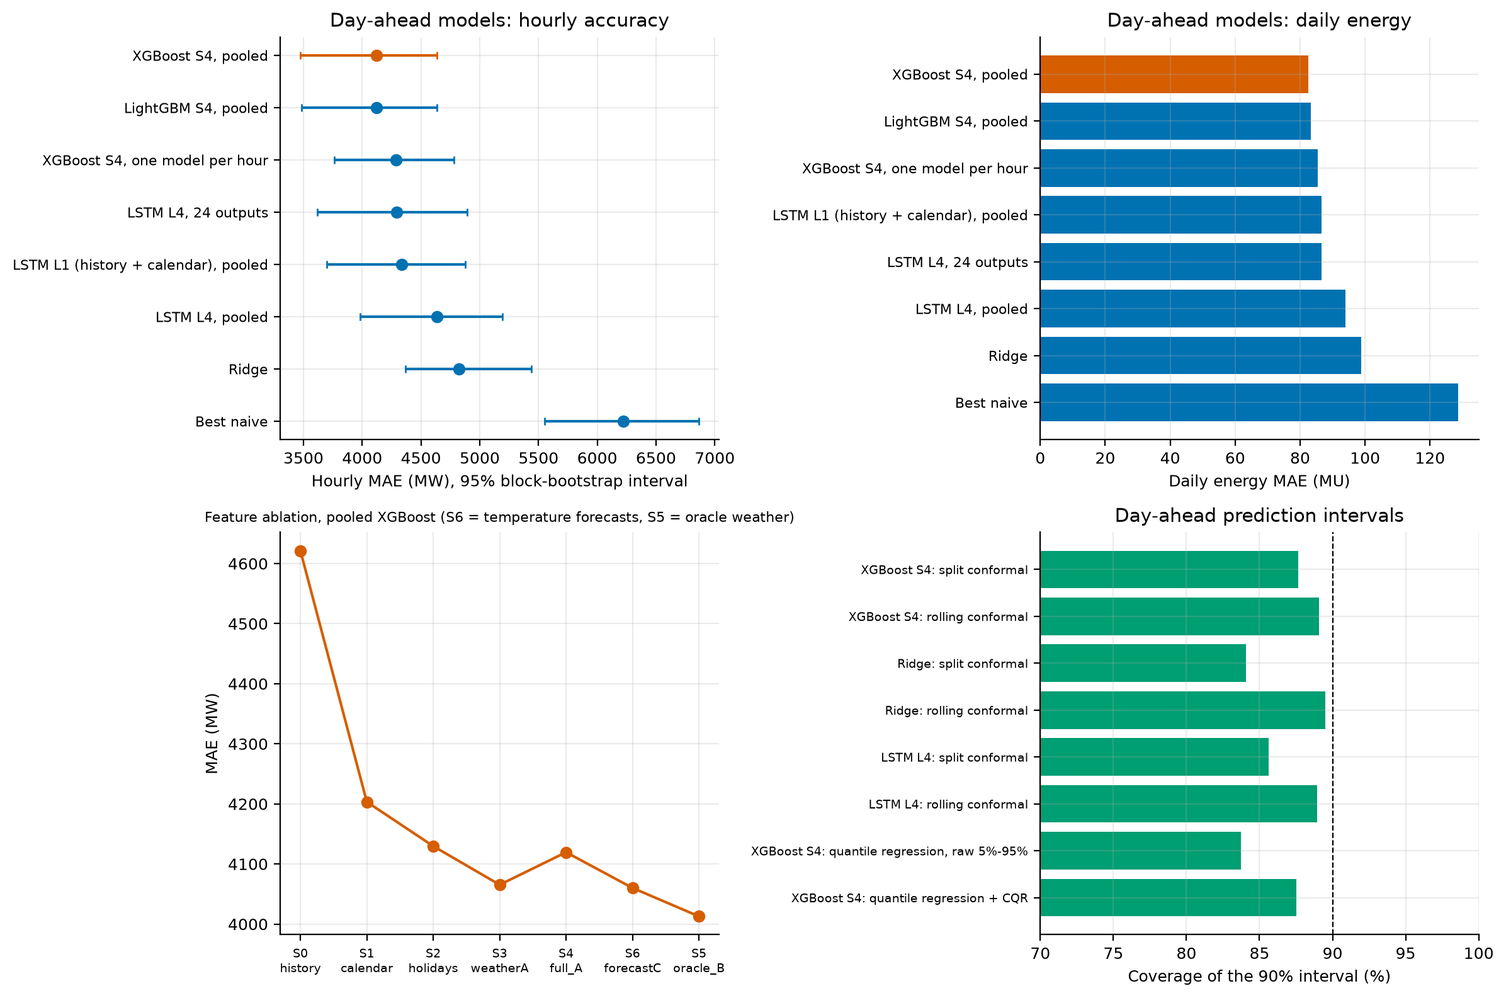
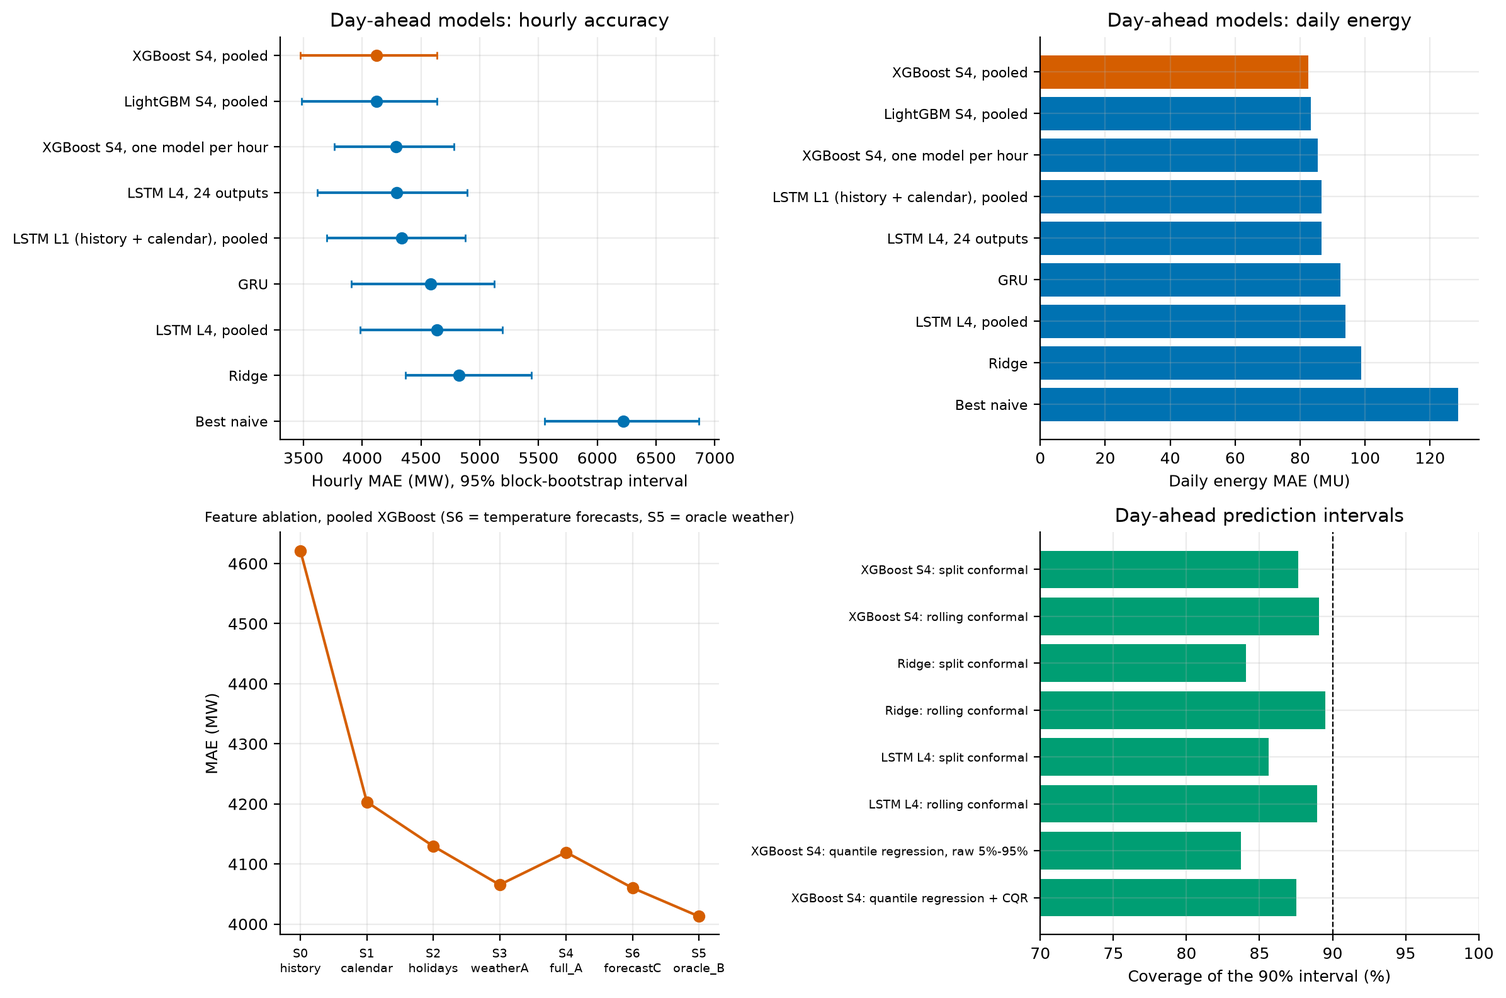
Completion batch finished: GRU results, deterministic bootstrap per comparison, documentation, audits

diff --git a/scripts/analyze_completion.py b/scripts/analyze_completion.py
@@ -9,6 +9,7 @@ import argparse
 import importlib
 import json
 import sys
+import zlib
 from pathlib import Path
 
 import matplotlib
@@ -351,7 +352,7 @@ def section_b(sp):
             cells = []
             for rn in ("XGBoost S4", "LSTM L4", "ridge"):
                 d = e - np.abs(r["ref"][rn] - r["y"])
-                lo, hi = rb.block_ci(d, rng)
+                lo, hi = rb.block_ci(d, np.random.default_rng([SEED, h, zlib.crc32(nm.encode()), zlib.crc32(rn.encode())]))   # own seed per comparison: independent of the other models run
                 cells.append(f"{sg(d.mean())} ({sg(lo)} to {sg(hi)})")
                 res[f"{h}:{nm}:{rn}"] = (float(d.mean()), float(lo), float(hi))
             md.append(f"| {h} h | **{nm}** | {f0(e.mean())} | " + " | ".join(cells) + " |")
@@ -382,7 +383,7 @@ def figure_b(rows):
                 xs.append(j)
                 ys.append(np.mean(np.abs(allp[nm] - r["y"])))
         if xs:
-            ax.plot(xs, ys, "o-", color=col[nm], label=nm)
+            ax.plot(xs, ys, "o-" if len(xs) == len(hs) else "o", color=col[nm], label=nm + ("" if len(xs) == len(hs) else " (evaluated at some horizons only)"))
     ax.set_xticks(range(len(hs)), [f"{h} h" for h in hs])
     ax.set_yscale("log")
     ax.set_ylabel("MAE (MW, log scale)")

diff --git a/reports/research_question_answers.md b/reports/research_question_answers.md
@@ -81,10 +81,11 @@ At 10:00 on day D-1 the 24 hourly values of day D are forecast (leads 14 to 37 h
 
 ## Completion batch (exploratory, secondary to the frozen headlines; designs declared in the protocol log on 2026-10-19 and 2026-10-20, validation first, one test run per model with a lock file)
 **Peak-exceedance classification (`reports/peak_events_test.md`).** An event is a day whose actual peak is at or above 228,464 MW (the 90th percentile of the daily peaks of the year before the test period); 45 of the 355 test days (12.7%) are events. Predicted peak from the saved hourly forecasts. F1 of the rolling 24 h-ahead forecasts: naive 0.659, ridge 0.787, XGBoost 0.791, LSTM 0.795; of the day-ahead forecasts: naive 0.645, ridge 0.774, XGBoost 0.791, LSTM 0.771. No difference among the learned models is distinguishable (for example XGBoost minus ridge +0.004, CI -0.050 to +0.090 for the rolling forecasts; day-ahead XGBoost minus rolling XGBoost +0.001, CI -0.066 to +0.056), the intervals are wide with 45 events, and the models differ in style: the day-ahead ridge catches most events (recall 0.911) at the price of many false alarms (precision 0.672), the day-ahead LSTM is conservative (precision 0.842, recall 0.711), XGBoost is balanced (0.783 and 0.800).
-**LightGBM (`reports/lightgbm_test.md`, `reports/other_families_test.md`).** With the same features as XGBoost S4, LightGBM reproduces the XGBoost picture: against the LSTM it is better at 1 h (-483 MW, CI -598 to -319) and 6 h (-290 MW, CI -388 to -179) and not distinguishable from 24 h to 168 h; against XGBoost it is slightly worse at 1 h (+50 MW, CI +24 to +89) and 6 h (+133 MW, CI +82 to +184) and not distinguishable at 24, 48, 72 and 168 h (-28, -91, +8 and -93 MW, all intervals include zero); against ridge it is better at 6, 24 and 48 h and worse at 168 h (+338 MW, CI +67 to +728) and 1 h (+112 MW, CI +19 to +260). The result 'trees beat the LSTM at short horizons and the two tie at longer ones' is therefore not specific to XGBoost. In the day-ahead task LightGBM equals XGBoost (hourly MAE 4,120 MW for both; difference +0, CI -39 to +52). Tuning budgets differ (30 trials for LightGBM and for the pooled XGBoost of the day-ahead task, 90 trials for XGBoost at the main horizons).
+**LightGBM (`reports/lightgbm_test.md`, `reports/other_families_test.md`).** With the same features as XGBoost S4, LightGBM reproduces the XGBoost picture: against the LSTM it is better at 1 h (-483 MW, CI -594 to -302) and 6 h (-290 MW, CI -388 to -179) and not distinguishable from 24 h to 168 h; against XGBoost it is slightly worse at 1 h (+50 MW, CI +21 to +87) and 6 h (+133 MW, CI +83 to +189) and not distinguishable at 24, 48, 72 and 168 h (-28, -91, +8 and -93 MW, all intervals include zero); against ridge it is better at 6, 24 and 48 h and worse at 168 h (+338 MW, CI +60 to +738) and 1 h (+112 MW, CI +19 to +277). The result 'trees beat the LSTM at short horizons and the two tie at longer ones' is therefore not specific to XGBoost. In the day-ahead task LightGBM equals XGBoost (hourly MAE 4,120 MW for both; difference +0, CI -39 to +52). Tuning budgets differ (30 trials for LightGBM and for the pooled XGBoost of the day-ahead task, 90 trials for XGBoost at the main horizons).
 **Day-ahead variants (`reports/dayahead_models_test.md`; hourly MAE in MW over 8,611 hours, 355 complete days).** Pooled XGBoost 4,120 is the best model; one XGBoost per target hour is worse (4,290; +170 MW, CI +81 to +341), so pooling the 24 target hours helped with about 830 training days. The 24-output LSTM (4,292) is better than the pooled single-output LSTM (4,634; -342 MW, CI -601 to -93) but still behind pooled XGBoost (+173 MW, CI +50 to +348); the LSTM with history and calendar inputs only (L1, 4,338) is also better than the full-feature LSTM (-296 MW, CI -544 to -95), as in the main study where weather and solar/wind hurt the LSTM at short leads. Daily energy MAE (MU): XGBoost 82.5, LightGBM 83.4, per-hour XGBoost 85.4, LSTM L1 86.6, 24-output LSTM 86.7, LSTM L4 94.0, ridge 98.8, naive 128.6; daily peak MAE (MW): 4,001, 4,070, 3,970, 4,458, 4,115, 4,734, 4,716, 5,586.
 **Feature ablation of the pooled day-ahead XGBoost (trees by early stopping on validation).** Test MAE 4,621 (history only), 4,203 (+ calendar; -418 MW against history only, CI -622 to -254), 4,130 (+ holidays; -74, CI -299 to +86), 4,065 (+ past weather; -64, CI -208 to +46), 4,120 (S4, + solar and wind; +54, CI -40 to +161). Only the calendar step is clearly away from zero, as at the main horizons. Archived temperature forecasts (S6, issue times unverified) are not distinguishable from S4 (-59 MW, CI -173 to +81); oracle weather (S5, an upper bound) is -107 MW (CI -153 to -18), a smaller gain than at 24-48 h in the main study.
 **Day-ahead prediction intervals (90%; calibrated on validation).** Split conformal under-covers (XGBoost 87.7%, ridge 84.1%, LSTM 85.6%; width 16-17 GW), rolling conformal is close to nominal (89.1%, 89.5%, 89.0%) with wider intervals (17.3-19.9 GW); XGBoost quantile regression covers 83.7% raw and 87.5% after the conformal correction (width 15.4 and 17.2 GW). The lowest interval score is split conformal around XGBoost (27,966 MW), followed by rolling conformal (28,149) and the corrected quantile model (29,048); the differences in score are about 10%, so no method is clearly best.
+- **GRU (`reports/neural_gru_test.md`, `reports/other_families_test.md`, `reports/dayahead_models_test.md`; 12 tuning trials per task, LSTM L4 inputs and training procedure).** The GRU behaves like the LSTM. At 1 h its test MAE is 1,660 MW (LSTM 1,643, XGBoost 1,111): not distinguishable from the LSTM (+17 MW, CI -23 to +66), clearly behind XGBoost (+549 MW, CI +442 to +658) and ridge (+611 MW, CI +539 to +698). At 24 h it is 3,742 MW, tied with XGBoost (+14 MW, CI -96 to +97) and with the LSTM (-1 MW, CI -45 to +44), and better than ridge (-472 MW, CI -591 to -376). In the day-ahead task it is 4,585 MW: behind pooled XGBoost (+465 MW, CI +308 to +646), not distinguishable from the pooled LSTM (-49 MW, CI -257 to +105) or from ridge (-241 MW, CI -1,037 to +383); daily energy MAE 92.4 MU (+9.9 MU against XGBoost, CI +4.9 to +15.1) and daily peak MAE 4,635 MW (+634 MW, CI +354 to +1,018). The LSTM's pattern (behind the tree models at short leads and in the day-ahead task, tied at 24 h) is therefore not specific to the LSTM cell among recurrent networks, under these tuning budgets (12 trials for the GRU, 12 plus 78 for the LSTM at 1-48 h, 30 for the day-ahead LSTM) and with one test year.
 - Not evaluated: statistical models (SARIMAX, Prophet) and convolutional or attention-based networks (TCN, Transformer), dropped by the owner before any run; see the protocol log and `docs/limitations.md`.
 
 ## Daily multi-year walk-forward on the full Zenodo series, 2017-2024 (exploratory; `reports/daily_multiyear.md`)

diff --git a/docs/experiment_protocol.md b/docs/experiment_protocol.md
@@ -98,6 +98,7 @@ Anything changed after results were seen is appended here with date, reason, and
 | 2026-10-20 | **Amendment of the completion batch, part P3 (b)-(d) (GRU, TCN, Transformer), made before any validation run of these models.** Reason: the declared design (20 trials, four horizons and the day-ahead task, a TCN over all 168 hourly steps, a Transformer over 168 tokens) was found to be infeasible on this laptop CPU (4 threads): measured training time per epoch on 20 thousand windows was about 0.3-1.4 min for the GRU and LSTM, 0.6-4.2 min for the TCN and 2.7-5.6 min for the Transformer, i.e. an estimated 10, 30 and 50 hours of tuning. **Changes (final):** (1) tasks: horizons 1 h and 24 h and the pooled day-ahead task (6 h and 48 h are dropped for these three families); (2) 12 random trials per task instead of 20 (the budget of the first LSTM tuning in the main study); (3) TCN: the 168 hourly steps are average-pooled to 56 steps of 3 hours, then 4 residual blocks with dilations 1, 2, 4, 8 (receptive field 183 hours); (4) Transformer: patching, i.e. 28 patches of 6 hours with a linear patch embedding, then 2 encoder layers with 4 heads and last-token pooling; (5) the GRU is unchanged. Everything else of P3 stands: inputs, target, valid samples, the stage-3 search space, selection on validation, 3 seeds, one test run per model with a lock file. The tuning budgets (12 trials for these families, 30 for LightGBM and for the LSTM in the day-ahead task, 90 for the LSTM at the main horizons, 30 for XGBoost) differ and are stated next to every comparison. **Note on earlier code tests:** the first version of the script was run with one trial and two-epoch final fits at 24 h only to test the code (validation MAE after one trial: GRU 3,692, TCN 3,515, Transformer 3,841 MW); these runs were not used for any decision, nothing was selected from them, and the architectures were changed afterwards for cost reasons only. |
 | 2026-10-20 | **Part P4 of the completion batch (SARIMAX and Prophet on the day-ahead task) is dropped by the owner's decision, before any validation or test run of these models.** Reason: low expected value for the research question (ridge on lags and calendar features and the naive baselines already serve as classical references; neither model can use weather, and Prophet has no yearly term and does not condition on recent data) against about 1.5 hours of compute. The scripts (`scripts/run_classical_dayahead.py`) stay in the repository and can be run later; they were only code-tested on the first 10 validation days (SARIMAX 3,584 MW, Prophet 16,829 MW; best naive 4,047, ridge 2,990, XGBoost 2,389 MW on those days), and nothing was selected or decided from these tests. No test-period result of either model exists. The statistical-model family is therefore not evaluated and this is stated as a limitation. |
 | 2026-10-20 | **Parts P3 (c) TCN and P3 (d) Transformer of the completion batch are dropped by the owner's decision, before any validation run of the amended versions.** Reason: low expected value (the GRU already tests whether the LSTM's behaviour is specific to its architecture; the TCN and Transformer would be simplified versions with 12 trials on three tasks, which is weak evidence) against about 6 hours of compute. What exists: the two architectures in `scripts/run_neural_families.py` (kept), cost benchmarks of their forward/backward passes on random data, and the one-trial code tests of the first versions at 24 h on validation (TCN 3,515 MW, Transformer 3,841 MW, already recorded in the amendment entry above); no result of the amended versions and no test-period result exists, and nothing was selected from these tests. P3 now consists of LightGBM (all six horizons and the day-ahead task) and the GRU (1 h, 24 h and the day-ahead task, 12 trials). Convolutional and attention-based networks are therefore not evaluated and this is stated as a limitation. |
+| 2026-10-20 | **Completion batch finished (outcome note).** Run as declared on 2026-10-19 with the changes of 2026-10-20: P1 (peak-exceedance), P2 (per-hour XGBoost, LSTM L1, 24-output LSTM, feature ablation, intervals), P3 (LightGBM at six horizons and the day-ahead task; GRU at 1 h, 24 h and the day-ahead task, 12 trials) were run with validation first and one test run each (locks `DAYAHEAD_EXT_TEST_DONE`, `DAYAHEAD_LSTM24_TEST_DONE`, `LIGHTGBM_TEST_DONE`, `NEURAL_GRU_TEST_DONE`); P4 and the TCN and Transformer were dropped by the owner before any run. The test runs of the day-ahead completions, the 24-output LSTM and LightGBM were started by hand (outside the automated runner, in parallel with the GRU tuning) after their frozen configurations had been committed with a clean tree; their commit messages are generic ('--with-test single test evaluation') but the commits contain the correct outputs. SARIMAX and Prophet, the TCN and the Transformer have no result. No frozen setting or headline of the main study changed. |
 
 ## 14. Gate 3 checklist (must all be true before any model training)
 - [x] Canonical dataset built and documented

diff --git a/docs/project_plan.md b/docs/project_plan.md
@@ -173,7 +173,7 @@ Goal: `data/processed/india_hourly_canonical.csv` (columns as in `reports/data_d
 | 9.6 | EV features — only if reliable historical data is found | – | `[x]` closed as not feasible and not material (EV charging about 0.2% of 2024 consumption; no open hourly data); see `docs/data_availability_notes.md` |
 | 9.7 | A separate operational day-ahead model: issue time 10:00 on day D-1, the 24 hourly values of day D (leads 14 to 37 h); naive, ridge (one model per target hour), XGBoost S4 and LSTM L4 (both pooled over the target hours; deviation from the original plan wording explained in the protocol entry); same chronological split, validation first, one test run. **Done 2026-10-19** (approved by the owner; declared in the protocol log first): `scripts/run_dayahead.py`, `scripts/analyze_dayahead.py`, `reports/dayahead_validation.md`, `reports/dayahead_test.md`, `reports/dayahead_analysis_test.md`, `reports/figures/fig14_dayahead.png`; findings in `reports/research_question_answers.md` | L | `[x]` |
 | 9.8 | Derived day-wise view from the saved 24 h-ahead hourly predictions (daily energy in MU, daily peak and peak hour; bootstrap by whole days, 28-day blocks; no refitting, no new test evaluation). **Done 2026-10-19** (approved by the owner; declared in the protocol log first): `scripts/run_daywise.py`, `reports/daywise_test.md`, `reports/figures/fig13_daywise.png`; findings in `reports/research_question_answers.md` | S | `[x]` |
-| 9.9 | **Completion batch (owner, mentor approved, 2026-10-19; declared in the protocol log first):** P1 peak-exceedance precision/recall/F1; P2 day-ahead completions (per-hour XGBoost, LSTM L1, 24-output LSTM, feature ablation incl. forecast temperature, intervals); P3 other model families (LightGBM at 1-168 h and day-ahead; GRU at 1 h, 24 h and day-ahead; the TCN and the Transformer were dropped by the owner on 2026-10-20 before any run of the amended versions); P4 SARIMAX and Prophet on the day-ahead task (dropped by the owner 2026-10-20 before any run; scripts kept); P5 licence (needs the owner's choice) | L | `[~]` in progress |
+| 9.9 | **Completion batch (owner, mentor approved, 2026-10-19; declared in the protocol log first):** P1 peak-exceedance precision/recall/F1; P2 day-ahead completions (per-hour XGBoost, LSTM L1, 24-output LSTM, feature ablation incl. forecast temperature, intervals); P3 other model families (LightGBM at 1-168 h and day-ahead; GRU at 1 h, 24 h and day-ahead; the TCN and the Transformer were dropped by the owner on 2026-10-20 before any run of the amended versions); P4 SARIMAX and Prophet on the day-ahead task (dropped by the owner 2026-10-20 before any run; scripts kept); P5 licence (needs the owner's choice) | L | `[x]` done 2026-10-20: P1, P2, P3 (LightGBM, GRU) complete; P4 and the TCN/Transformer dropped by the owner; results in `reports/research_question_answers.md` |
 
 ## 12. Phase 10 — Novelty check and writing
 

diff --git a/README.md b/README.md
@@ -93,7 +93,7 @@ Scripts use paths relative to the project root and have `--help` or a docstring.
 - `reports/figures/fig01_...fig12_*.png`: the 12 figures for the write-up (accuracy and skill by horizon, paired differences, example week, feature ablation, walk-forward, daily multi-year, intervals, training cost, learning curves, demand and splits, study design); `reports/figures/FIGURE_CAPTIONS.md`: captions and caveats.
 - `reports/efficiency_table.md`: consolidated computational-efficiency table.
 - `reports/dayahead_validation.md`, `reports/dayahead_test.md`, `reports/dayahead_analysis_test.md`, `reports/figures/fig14_dayahead.png`: the operational day-ahead model (issue 10:00 on D-1; `scripts/run_dayahead.py`, `scripts/analyze_dayahead.py`).
-- `reports/peak_events_test.md`, `reports/dayahead_ext_test.md`, `reports/dayahead_lstm24_test.md`, `reports/lightgbm_test.md`, `reports/dayahead_models_test.md`, `reports/other_families_test.md`, figures `fig15`-`fig17`: the completion batch (peak-exceedance classification, day-ahead variants, ablation and intervals, LightGBM; scripts `run_peak_events.py`, `run_dayahead_ext.py`, `run_dayahead_lstm24.py`, `run_lightgbm.py`, `run_neural_families.py`, `analyze_completion.py`; `run_classical_dayahead.py` and the TCN/Transformer classes are kept but were not run).
+- `reports/peak_events_test.md`, `reports/dayahead_ext_test.md`, `reports/dayahead_lstm24_test.md`, `reports/lightgbm_test.md`, `reports/dayahead_models_test.md`, `reports/other_families_test.md`, figures `fig15`-`fig17`: the completion batch (peak-exceedance classification, day-ahead variants, ablation and intervals, LightGBM; scripts `run_peak_events.py`, `run_dayahead_ext.py`, `run_dayahead_lstm24.py`, `run_lightgbm.py`, `run_neural_families.py`, `analyze_completion.py`; `run_classical_dayahead.py` and the TCN/Transformer classes are kept but were not run; `reports/neural_gru_test.md` holds the GRU).
 - `reports/daywise_test.md`, `reports/figures/fig13_daywise.png`: day-wise view of the 24 h-ahead forecasts (daily energy, peak, peak hour; `scripts/run_daywise.py`, no refitting).
 - `reports/daily_multiyear.md`: daily multi-year walk-forward on the full Zenodo series (8 test years).
 - `reports/walk_forward.md`, `reports/lstm_stage3.md`, `reports/lstm_stage3_test.md`, `reports/numbers_audit.md`: walk-forward evaluation, equal-budget LSTM, numbers audit.

diff --git a/reports/other_families_test.md b/reports/other_families_test.md
@@ -7,27 +7,29 @@ LightGBM (S4, scenario A) at 1, 6, 24, 48, 72 and 168 h; the GRU (LSTM L4 inputs
 | 1 h | ridge (existing) | 1,049 | | | |
 | 1 h | XGBoost S4 (existing) | 1,111 | | | |
 | 1 h | LSTM L4 (existing) | 1,643 | | | |
-| 1 h | **LightGBM S4** | 1,160 | +50 (+24 to +89) | -483 (-598 to -319) | +112 (+19 to +260) |
+| 1 h | **LightGBM S4** | 1,160 | +50 (+21 to +87) | -483 (-594 to -302) | +112 (+19 to +277) |
+| 1 h | **GRU** | 1,660 | +549 (+442 to +658) | +17 (-23 to +66) | +611 (+539 to +698) |
 | 6 h | ridge (existing) | 3,082 | | | |
 | 6 h | XGBoost S4 (existing) | 2,747 | | | |
 | 6 h | LSTM L4 (existing) | 3,170 | | | |
-| 6 h | **LightGBM S4** | 2,880 | +133 (+82 to +184) | -290 (-388 to -179) | -202 (-300 to -86) |
+| 6 h | **LightGBM S4** | 2,880 | +133 (+83 to +189) | -290 (-388 to -179) | -202 (-305 to -84) |
 | 24 h | ridge (existing) | 4,214 | | | |
 | 24 h | XGBoost S4 (existing) | 3,728 | | | |
 | 24 h | LSTM L4 (existing) | 3,743 | | | |
-| 24 h | **LightGBM S4** | 3,700 | -28 (-94 to +20) | -43 (-130 to +67) | -514 (-648 to -401) |
+| 24 h | **LightGBM S4** | 3,700 | -28 (-98 to +23) | -43 (-132 to +71) | -514 (-652 to -394) |
+| 24 h | **GRU** | 3,742 | +14 (-96 to +97) | -1 (-45 to +44) | -472 (-591 to -376) |
 | 48 h | ridge (existing) | 5,549 | | | |
 | 48 h | XGBoost S4 (existing) | 5,158 | | | |
 | 48 h | LSTM L4 (existing) | 5,325 | | | |
-| 48 h | **LightGBM S4** | 5,067 | -91 (-219 to +64) | -257 (-489 to +8) | -481 (-700 to -266) |
+| 48 h | **LightGBM S4** | 5,067 | -91 (-229 to +56) | -257 (-503 to +7) | -481 (-705 to -273) |
 | 72 h | ridge (existing) | 6,244 | | | |
 | 72 h | XGBoost S4 (existing) | 6,018 | | | |
 | 72 h | LSTM L4 (existing) | 6,200 | | | |
-| 72 h | **LightGBM S4** | 6,026 | +8 (-159 to +200) | -174 (-521 to +218) | -217 (-504 to +34) |
+| 72 h | **LightGBM S4** | 6,026 | +8 (-178 to +203) | -174 (-522 to +225) | -217 (-502 to +33) |
 | 168 h | ridge (existing) | 7,743 | | | |
 | 168 h | XGBoost S4 (existing) | 8,173 | | | |
 | 168 h | LSTM L4 (existing) | 8,171 | | | |
-| 168 h | **LightGBM S4** | 8,081 | -93 (-280 to +97) | -90 (-315 to +180) | +338 (+67 to +728) |
+| 168 h | **LightGBM S4** | 8,081 | -93 (-283 to +91) | -90 (-316 to +172) | +338 (+60 to +738) |
 
 ## Caveats
 

diff --git a/reports/dayahead_models_test.md b/reports/dayahead_models_test.md
@@ -12,6 +12,7 @@ Intervals: 95% paired moving-block bootstrap over whole days (blocks of 28 days,
 | XGBoost S4, one model per hour | 4,290 [3,765, 4,781] | 2.24 | +170 (+81 to +341) | -536 (-1,149 to -53) | -344 (-613 to -92) |
 | LSTM L4, 24 outputs | 4,292 [3,619, 4,892] | 2.23 | +173 (+50 to +348) | -534 (-1,322 to +104) | -342 (-601 to -93) |
 | LSTM L1 (history + calendar), pooled | 4,338 [3,696, 4,878] | 2.27 | +218 (+127 to +361) | -488 (-1,239 to +125) | -296 (-544 to -95) |
+| GRU | 4,585 [3,906, 5,125] | 2.39 | +465 (+308 to +646) | -241 (-1,037 to +383) | -49 (-257 to +105) |
 | LSTM L4, pooled | 4,634 [3,982, 5,193] | 2.41 | +514 (+307 to +809) | -192 (-997 to +467) | reference |
 | Ridge | 4,826 [4,370, 5,441] | 2.54 | +706 (+175 to +1,459) | reference | +192 (-467 to +997) |
 | Best naive | 6,224 [5,551, 6,865] | 3.23 | +2,105 (+1,925 to +2,401) | +1,398 (+654 to +2,080) | +1,590 (+1,336 to +1,858) |
@@ -27,6 +28,7 @@ Differences are model minus reference (negative = the model is better); an inter
 | XGBoost S4, one model per hour | 85.4 | +2.9 (+0.4 to +7.1) | 3,970 | -31 (-235 to +187) | +502 | 67.6 |
 | LSTM L1 (history + calendar), pooled | 86.6 | +4.1 (-0.3 to +9.9) | 4,458 | +457 (+188 to +877) | -1,455 | 72.4 |
 | LSTM L4, 24 outputs | 86.7 | +4.2 (+1.2 to +8.7) | 4,115 | +114 (-137 to +423) | +139 | 77.7 |
+| GRU | 92.4 | +9.9 (+4.9 to +15.1) | 4,635 | +634 (+354 to +1,018) | -661 | 72.1 |
 | LSTM L4, pooled | 94.0 | +11.5 (+5.2 to +19.8) | 4,734 | +733 (+454 to +1,161) | -1,140 | 72.4 |
 | Ridge | 98.8 | +16.3 (+2.4 to +36.3) | 4,716 | +715 (+147 to +1,516) | +1,229 | 78.3 |
 | Best naive | 128.6 | +46.1 (+40.7 to +54.8) | 5,586 | +1,585 (+1,292 to +2,050) | +1,043 | 71.5 |

diff --git a/reports/numbers_audit.md b/reports/numbers_audit.md
@@ -24,10 +24,10 @@ Tables in README.md, reports/test_summary.md and reports/validation_summary.md w
 
 ## Part 2: interval triples quoted in the hand-written documents versus the generated reports
 
-- `reports/research_question_answers.md`: 89 distinct triples found, 89 matched a generated report, 0 not matched.
+- `reports/research_question_answers.md`: 99 distinct triples found, 99 matched a generated report, 0 not matched.
 - `reports/test_summary.md`: 24 distinct triples found, 24 matched a generated report, 0 not matched.
 - `reports/validation_summary.md`: 20 distinct triples found, 20 matched a generated report, 0 not matched.
 
-Total: 133 of 133 matched. Unmatched triples are not necessarily wrong (they may come from a differently formatted source) and must be checked by hand.
+Total: 143 of 143 matched. Unmatched triples are not necessarily wrong (they may come from a differently formatted source) and must be checked by hand.
 
 

diff --git a/reports/numbers_audit_manual.md b/reports/numbers_audit_manual.md
@@ -20,9 +20,9 @@
 
 ## Part 2: interval triples quoted in the hand-written documents versus the generated reports
 
-- `reports/research_question_answers.md`: 89 distinct triples found, 89 matched a generated report, 0 not matched.
+- `reports/research_question_answers.md`: 99 distinct triples found, 99 matched a generated report, 0 not matched.
 - `reports/test_summary.md`: 24 distinct triples found, 24 matched a generated report, 0 not matched.
 - `reports/validation_summary.md`: 20 distinct triples found, 20 matched a generated report, 0 not matched.
 
-Total: 133 of 133 matched. Unmatched triples are not necessarily wrong (they may come from a differently formatted source) and must be checked by hand.
+Total: 143 of 143 matched. Unmatched triples are not necessarily wrong (they may come from a differently formatted source) and must be checked by hand.
 
